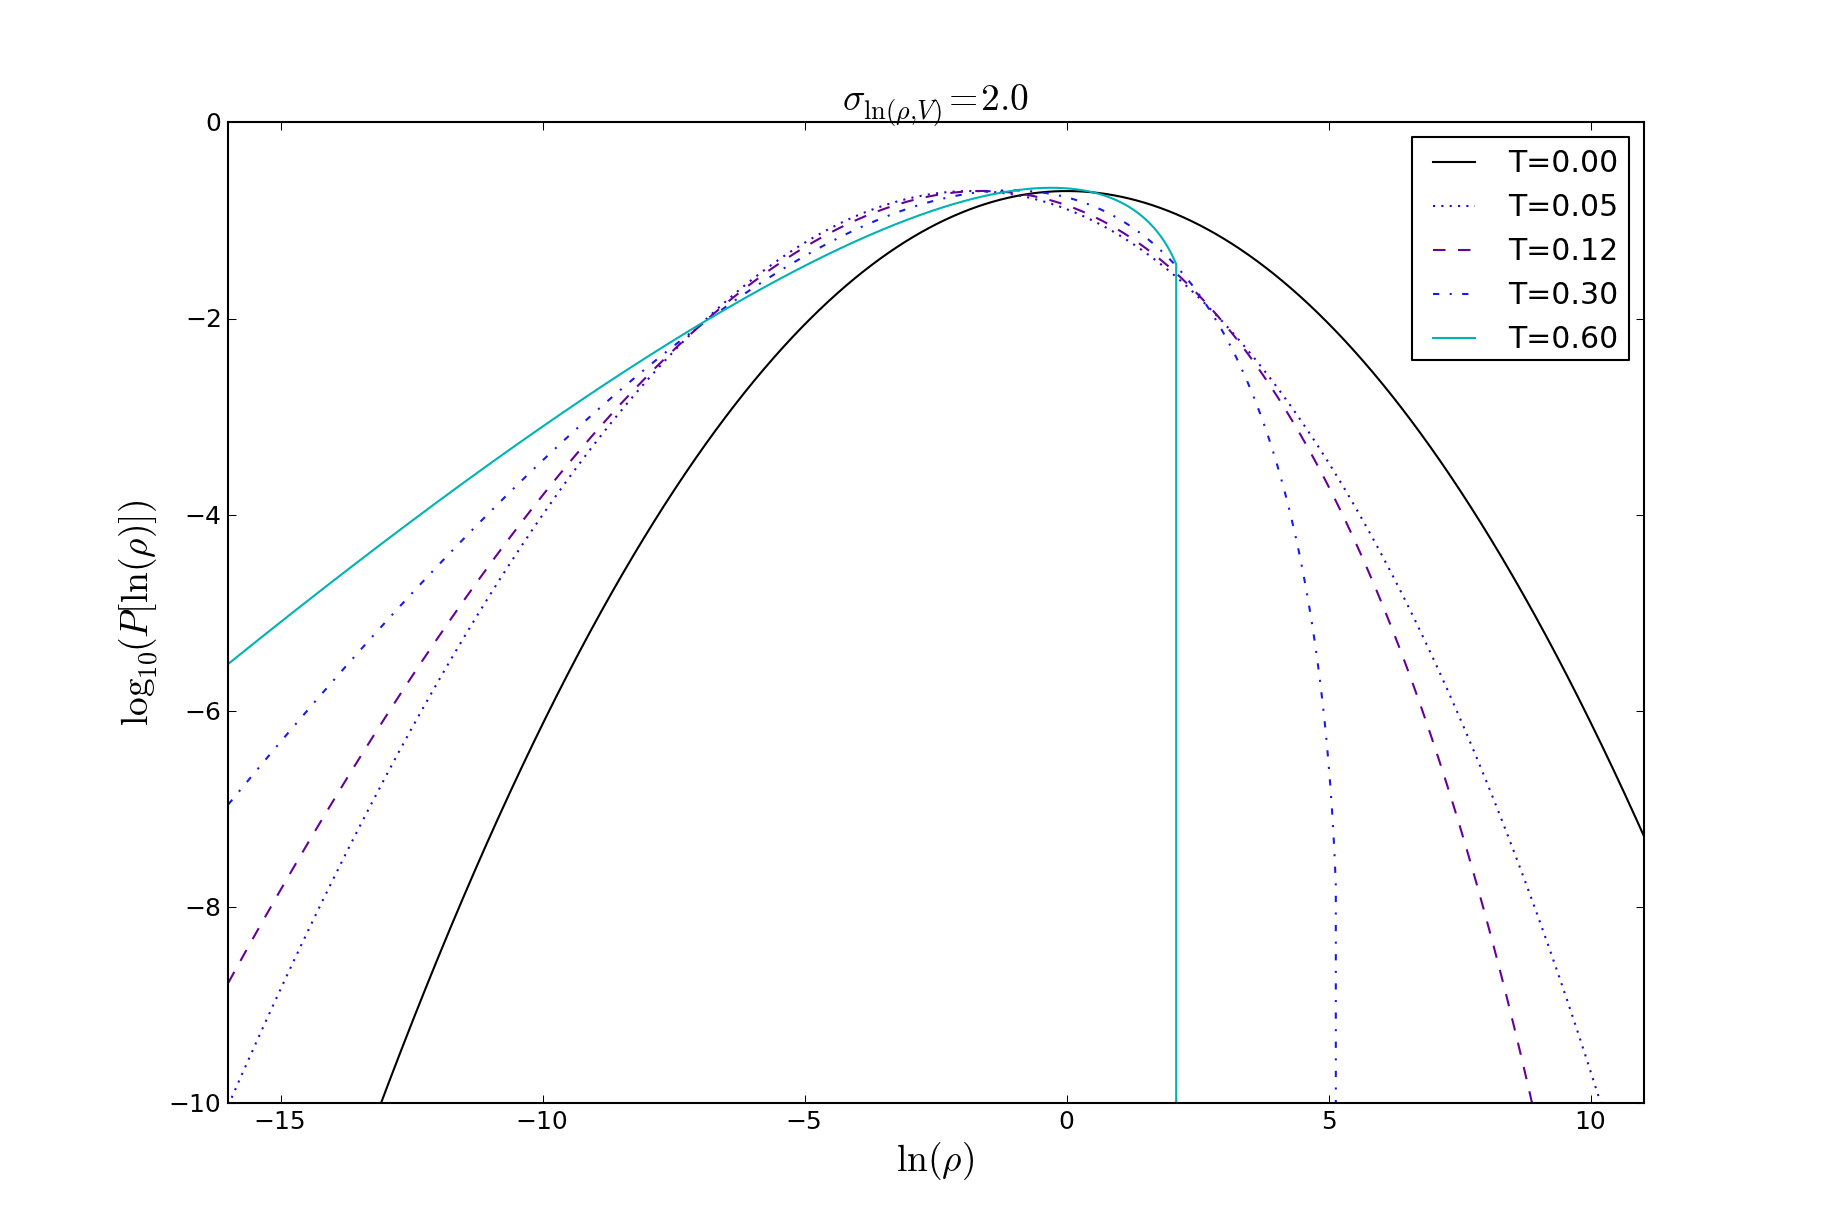
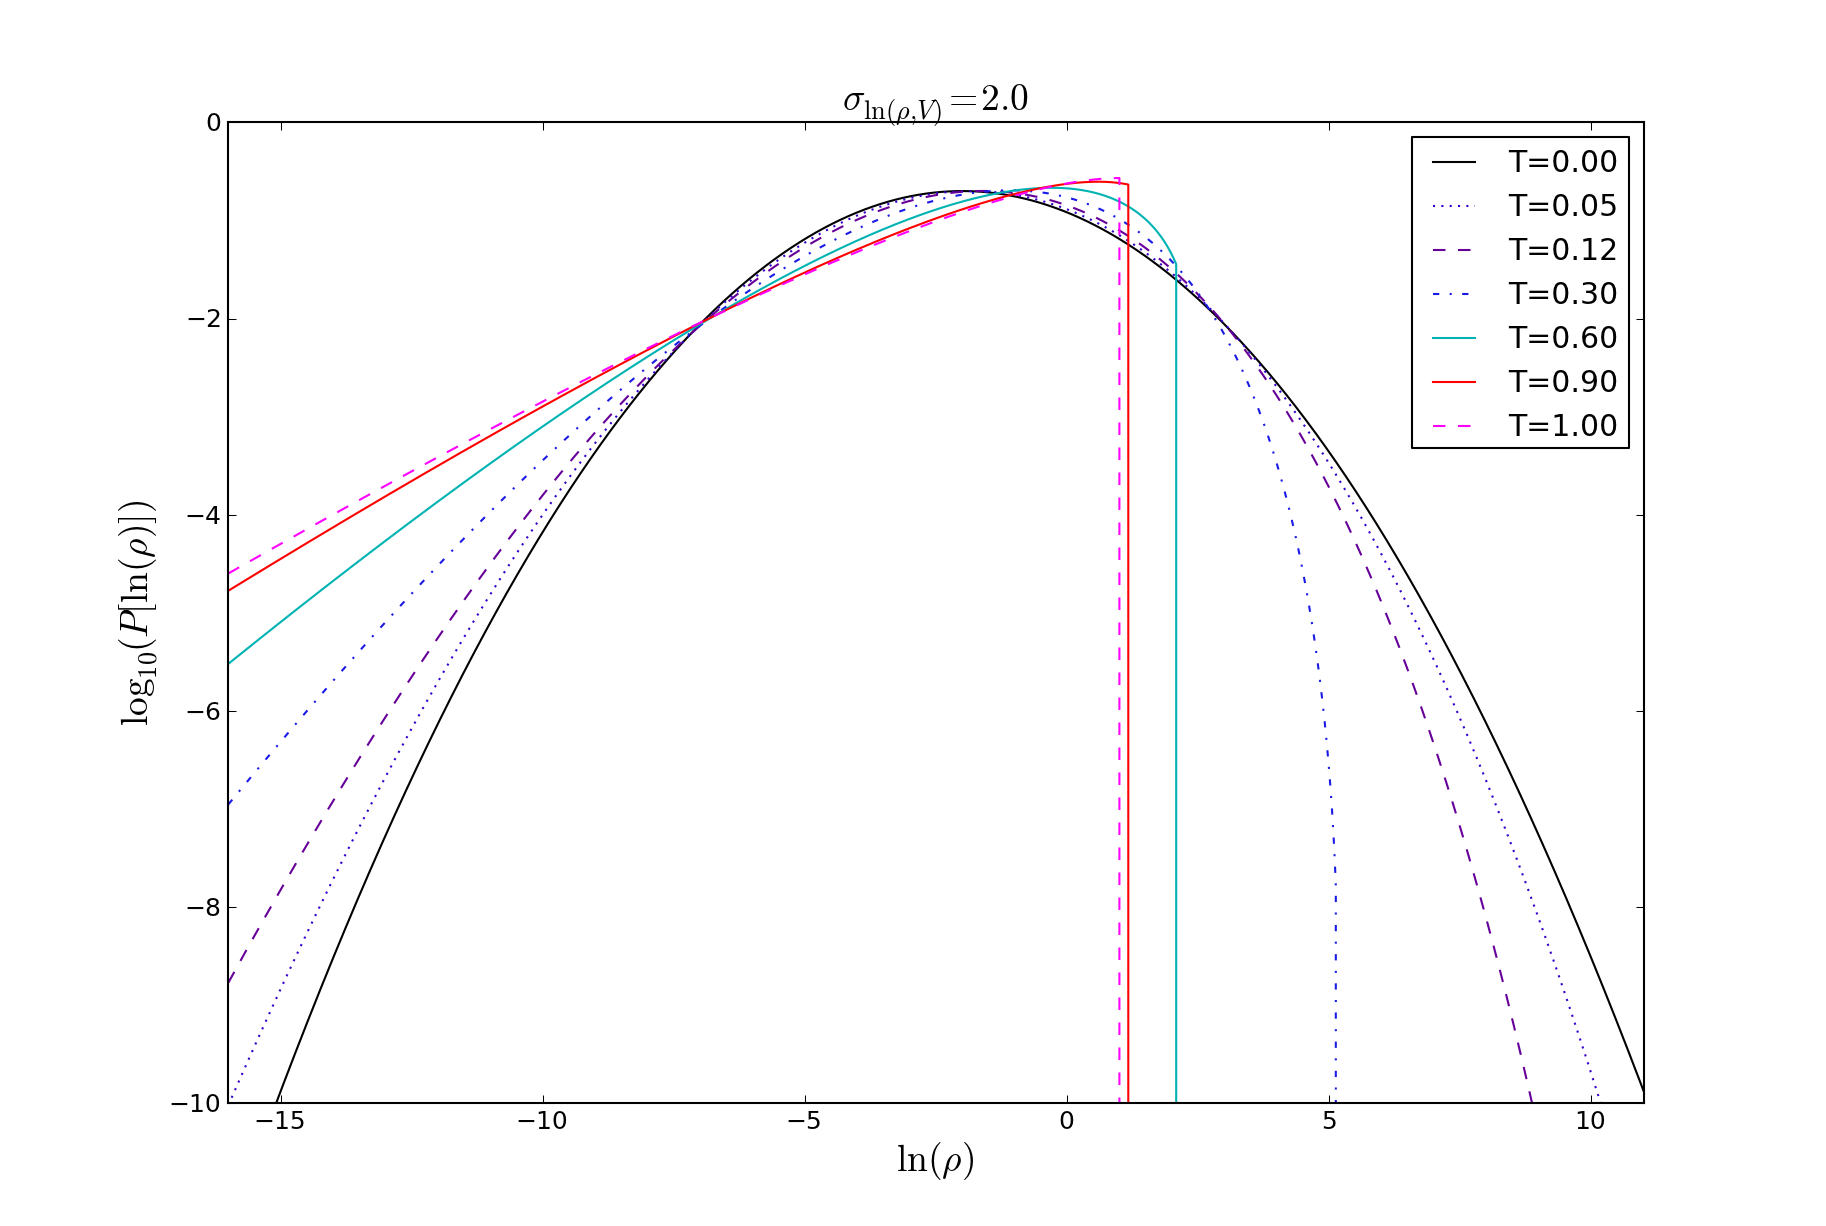
updated hopkins distribution to include mass-weighted, and added some more lines....

diff --git a/hopkins_pdf.py b/hopkins_pdf.py
@@ -7,7 +7,7 @@ iv1 = lambda x: iv(1,x)
 # for rescaling log_e -> log_10
 ln10 = np.log(10)
 
-def loghopkins(rho, sigma, T):
+def loghopkins(rho, sigma, T, meanrho=1):
     """
     Hopkins 2013 probability distribution:
     :math:`P_V(\ln(\rho)) d \ln(\rho) = I_1 (2 \sqrt{\lambda u}) \exp\left[-(\lambda+u)] \sqrt{\frac{\lambda}{u}} \d u`
@@ -33,12 +33,12 @@ def loghopkins(rho, sigma, T):
     The log-probability of the density  
     """
     if T == 0:
-        return (-(np.log(rho))**2/(2.*sigma**2)) - np.log(np.sqrt(2*np.pi*sigma**2))
+        return (-(np.log(rho)-np.log(meanrho)+sigma**2/2.)**2/(2.*sigma**2)) - 0.5 * np.log(2*np.pi*sigma**2)
 
     log_rho = np.zeros(rho.shape,dtype=rho.dtype)
 
     lam = sigma**2 / (2*T**2)
-    u = lam/(1+T) - np.log(rho)/T
+    u = lam/(1+T) - np.log(rho/meanrho)/T
     arg = (2*(lam*u)**0.5)
     arg2 = (-(lam+u))
 
@@ -51,8 +51,8 @@ def loghopkins(rho, sigma, T):
 
     # p(rho)=0 for u<0 
     # du = d(ln rho) / T
-    log_rho[u>0] = (term1 + arg2 + 0.5*(np.log(lam)-np.log(u)) - np.log(T))[u>=0]
-    log_rho[u<0] = -np.inf
+    log_rho[u>0] = (term1 + arg2 + 0.5*(np.log(lam)-np.log(u)) - np.log(T))[u>0]
+    log_rho[u<=0] = -np.inf
 
     if np.any(np.isnan(log_rho)):
         raise ValueError("A value is NaN; this should not happen!")
@@ -88,15 +88,35 @@ def hopkins(rho, sigma, T):
     """
     return np.exp(loghopkins(rho,sigma,T))
 
+def hopkins_masspdf(rho, sigma_M, T):
+    """
+    Mass-weighted version of the Hopkins PDF
+    """
+    sigma = sigma_M * (1+T)**3
+    return np.exp(loghopkins(rho,sigma,T))
+
+def loghopkins_masspdf(rho, sigma_M, T):
+    """
+    Mass-weighted version of the Hopkins PDF
+    """
+    sigma = sigma_M * (1+T)**3
+    return (loghopkins(rho,sigma,T))
+
+def hopkins_masspdf_ofmeandens(rho, meanrho, T):
+    sigma_M = np.sqrt( np.log(meanrho) * (1+3*T+2*T**2)/(1+T)**3)
+    sigma = sigma_M * (1+T)**3
+    return np.exp(loghopkins(rho,sigma,T))
+
+
 def test_hopkins(savefigures=False):
     import pylab as pl
     pl.figure(1)
     pl.clf()
     rho = np.logspace(-16,11,50000,base=np.e)
     sigma = 2
-    Tvals = [0,0.05,0.12,0.3,0.6]
-    colors = ['k',(0.2,0.0,0.8),(0.4,0.0,0.6),(0.1,0.1,0.9),(0,0.7,0.7)]
-    linestyles = ['-',':','--','-.','-']
+    Tvals = [0,0.05,0.12,0.3,0.6,0.9,1.0]
+    colors = ['k',(0.2,0.0,0.8),(0.4,0.0,0.6),(0.1,0.1,0.9),(0,0.7,0.7),(1,0,0),(1,0,1)]
+    linestyles = ['-',':','--','-.','-','-','--']
 
     for T,col,ls in zip(Tvals,colors,linestyles):
         pdist = loghopkins(rho,sigma,T)
@@ -133,5 +153,69 @@ def test_hopkins(savefigures=False):
     if savefigures:
         pl.savefig("figures/Hopkins2013_fig1b.png")
 
+    pl.figure(3)
+    pl.clf()
+    rho = np.logspace(-16,11,50000,base=np.e)
+    sigma = 2
+    Tvals = [0,0.05,0.12,0.3,0.6,0.9,1.0]
+    colors = ['k',(0.2,0.0,0.8),(0.4,0.0,0.6),(0.1,0.1,0.9),(0,0.7,0.7),(1,0,0),(1,0,1)]
+    linestyles = ['-',':','--','-.','-','-','--']
+
+    for T,col,ls in zip(Tvals,colors,linestyles):
+        pdist = loghopkins_masspdf(rho,sigma,T)
+        pdist[pdist<-100] = -100 # plot negative infinities
+        #pdist += -1-pdist[np.isfinite(pdist)].max()
+        pl.plot(np.log(rho), pdist/ln10, label="T=%0.2f" % T, color=col, linestyle=ls)
+    pl.axis([-16,11,-10,0])
+    pl.xlabel("$\\ln(\\rho_M)$",fontsize=18)
+    pl.ylabel("$\\log_{10}(P[\\ln(\\rho_M)])$",fontsize=18)
+    pl.legend(loc='best')
+    pl.title("$\\sigma_{\ln(\\rho,M)}=2.0$",fontsize=18)
+
+    if savefigures:
+        pl.savefig("figures/Hopkins2013_fig1a_massweight.png")
+
+    pl.figure(4)
+    pl.clf()
+    sigmas = np.array([0.1,0.2,0.5,1,2,4,8])**0.5
+    T = 0.12
+    colors = ['k',(0.2,0.0,0.8),(0.4,0.0,0.6),(0.1,0.1,0.9),(0,0.7,0.7),(0,1,0),(1,0.7,0)]
+    linestyles = ['-',':','--','-.','-','--','-']
+
+    for sigma,col,ls in zip(sigmas,colors,linestyles):
+        pdist = loghopkins_masspdf(rho,sigma,T)
+        pdist[pdist<-100] = -100 # plot negative infinities
+        #pdist += -1-pdist[np.isfinite(pdist)].max()
+        pl.plot(np.log(rho), pdist/ln10, label="$\\sigma_M=%0.2f$" % sigma, color=col, linestyle=ls)
+    pl.axis([-16,11,-10,1])
+    pl.xlabel("$\\ln(\\rho_M)$",fontsize=18)
+    pl.ylabel("$\\log_{10}(P[\\ln(\\rho_M)])$",fontsize=18)
+    pl.legend(loc='best')
+    pl.title("T=0.12",fontsize=18)
+
+    if savefigures:
+        pl.savefig("figures/Hopkins2013_fig1b_massweight.png")
+
+
+    pl.figure(5)
+    pl.clf()
+    T = 0.12
+    meanrhos = 10**(np.arange(2,8))
+    rho = np.logspace(-36,31,50000,base=np.e)
+    for meanrho,col,ls in zip(meanrhos,colors,linestyles):
+        pdist = hopkins_masspdf_ofmeandens(rho, meanrho, T)
+        #pdist[pdist<-100] = -100 # plot negative infinities
+        #pdist += -1-pdist[np.isfinite(pdist)].max()
+        pl.plot(np.log(rho), np.log10(pdist), label="$<\\rho>_M=%0.2g$" % meanrho, color=col, linestyle=ls)
+    pl.axis([-36,31,-10,0])
+    pl.xlabel("$\\ln(\\rho_M)$",fontsize=18)
+    pl.ylabel("$\\log_{10}(P[\\ln(\\rho_M)])$",fontsize=18)
+    pl.legend(loc='best')
+    pl.title("$T=0.12$ varying mean density",fontsize=18)
+
+    if savefigures:
+        pl.savefig("figures/Hopkins_MassPDFVsMeanMass.png")
+
     pl.show()
+
 
